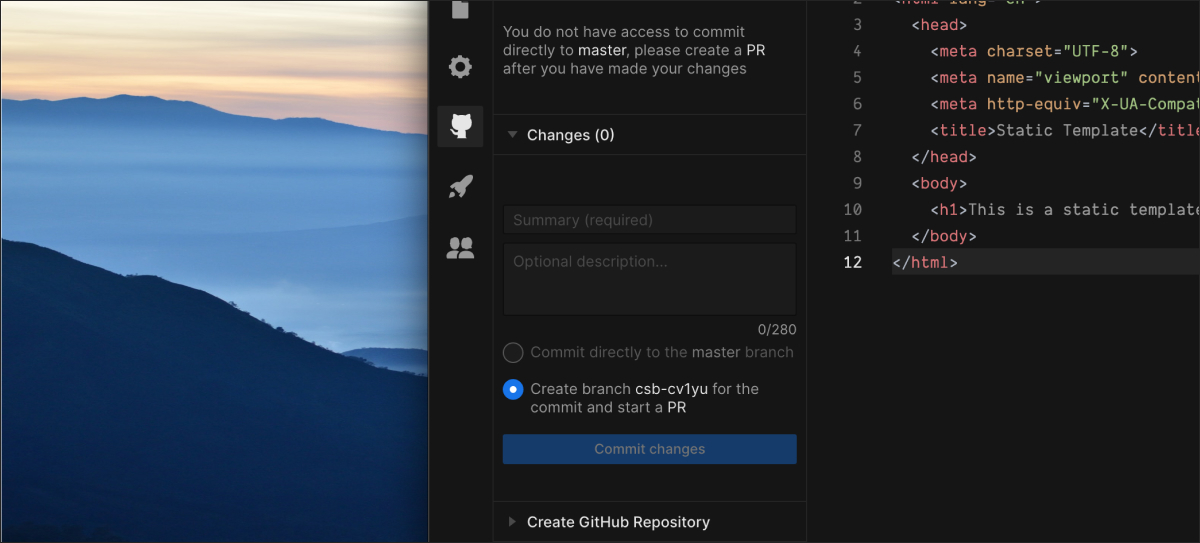
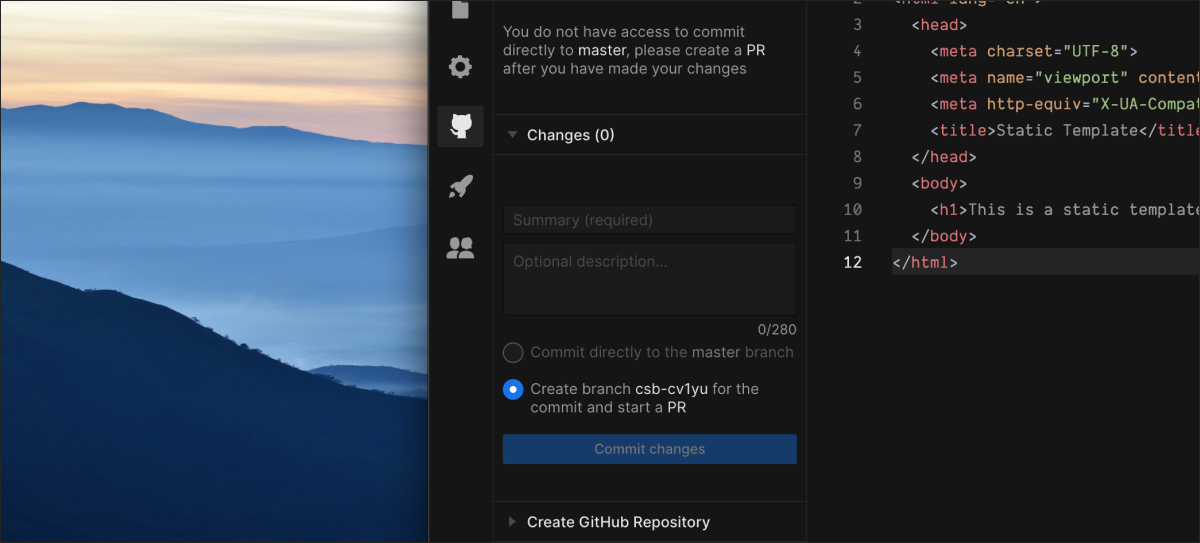
3 9 0 changelog (#4625)
* Added 3-9-0

* quick fix

* Small tweak to image of 3-7-0

* Update index.md

Changed region(s): [[0.0, 0.442, 0.37, 0.7366], [0.0, 0.1179, 0.37, 0.2652]]

diff --git a/packages/homepage/content/changelog/3-9-0/index.md b/packages/homepage/content/changelog/3-9-0/index.md
@@ -1,0 +1,24 @@
+---
+banner: ./3-9-0.jpg
+title: v3.9.0
+slug: new repositories
+date: 2020-07-31
+description:
+  Quickly access all our sandboxes linked with GitHub from the dashboard
+---
+
+#### Features
+
+1. Repositories Sandboxes in the Dashboard  
+   Quickly access all our sandboxes linked with GitHub from the dashboard
+2. Codesandbox now sets the TypeScript version of the editor dynamically
+3. Added Sass and CSS support to Svelte template
+
+#### Fixes
+
+- Fixed several smaller issues related to GitHub syncing
+- Fixed updating git changes after doing a sync
+- Fixed reloading the source sandbox after dealing with a sync
+- Several improvements to the new Dashboards
+- Toggle fullscreen view on Safari
+- Added env variable to SSE docs
